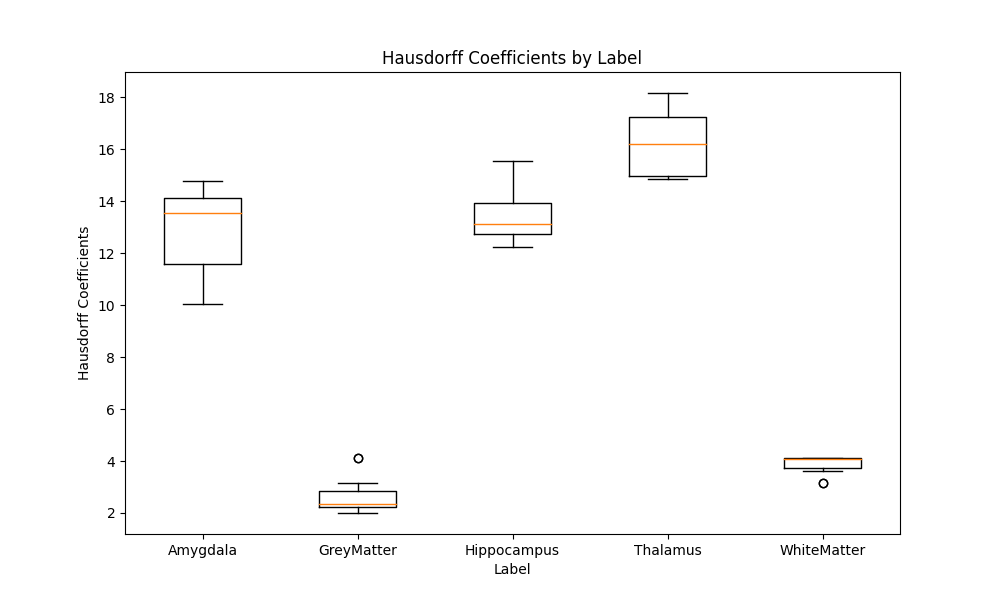
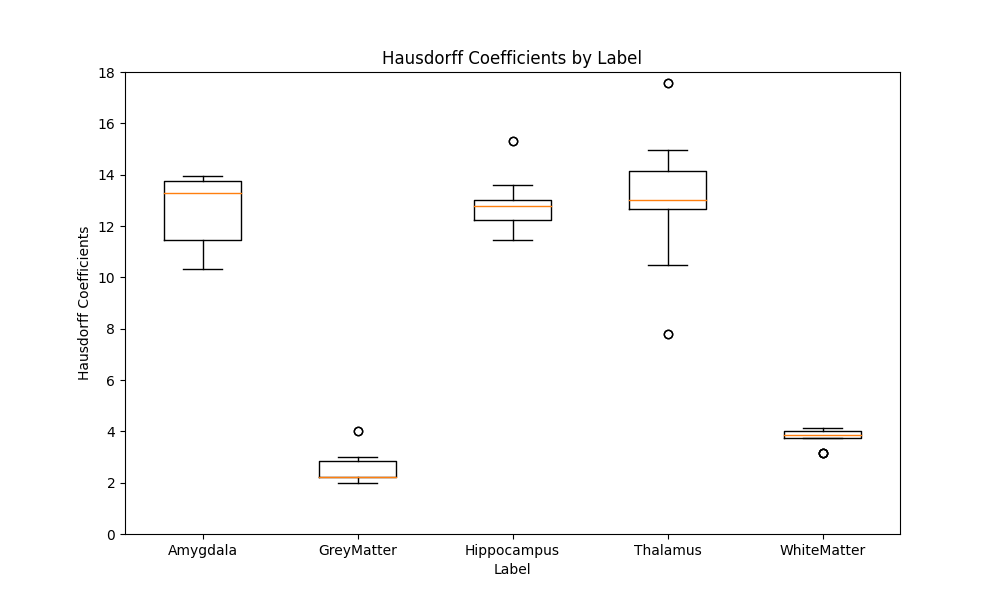
ADD: Y-axis lim on boxplot.py

diff --git a/bin/boxplot.py b/bin/boxplot.py
@@ -11,7 +11,7 @@ def main():
     current_directory = os.getcwd()
     target_directory = os.path.join(current_directory, 'mia-result')
 
-    folder_name = '2023-11-05-15-44-46'  # Change here!!!!!!!!!
+    folder_name = '2023-11-06-09-20-08'  # Change here!!!!!!!!!
     file_name = 'results.csv'
 
     file_path = os.path.join(target_directory, folder_name, file_name)
@@ -39,6 +39,9 @@ def main():
     plt.xlabel("Label")
     plt.ylabel("Dice Coefficients")
 
+    # Set y-axis limits
+    plt.ylim(0.4, 0.85)
+
     # Save the boxplot as png file
     plt.savefig("dice_boxplot.png")
 
@@ -60,7 +63,12 @@ def main():
     plt.xlabel("Label")
     plt.ylabel("Hausdorff Coefficients")
 
+    # Set y-axis limits
+    plt.ylim(0, 18)
+
     plt.savefig("hausdorff_boxplot.png")
+
+
 
     plt.show()
 

diff --git a/bin/main.py b/bin/main.py
@@ -71,7 +71,7 @@ def main(result_dir: str, data_atlas_dir: str, data_train_dir: str, data_test_di
                           'coordinates_feature': True,
                           'intensity_feature': True,
                           'gradient_intensity_feature': True,
-                          'GLCM_features': True,    # TODO: False = Baseline and True = Test with Pyradiomics
+                          'GLCM_features': False,    # TODO: False = Baseline and True = Test with Pyradiomics
                           'GLCM_features_parameters': glcm_parameters_list,
                           'n_estimators': 50,   # TODO: Test other values
                           'max_depth': 60   # TODO: Test other values
